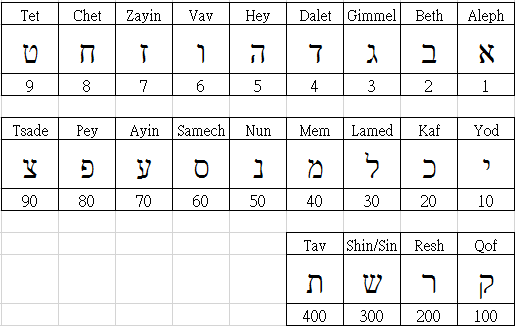
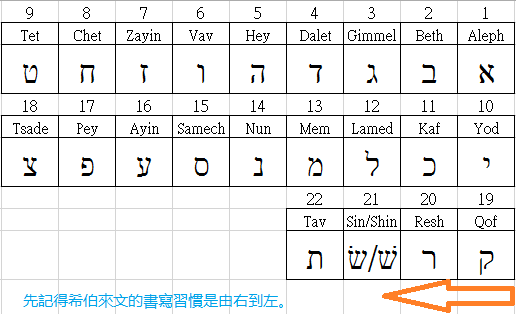
commit-01

diff --git a/docs/CH01.md b/docs/CH01.md
@@ -6,102 +6,87 @@
 
 對於希伯來文的22個字母，是長得什麼模樣？這份好奇心，就此深藏心中許久。
 
-近來，有幸在**FB**社群　[學習希伯來語-奇布茲](https://www.facebook.com/groups/308100932705850/)　看到一群同好在學習這種語言，也就一頭栽下，開始學習希伯來文了。
+近來，有幸在**FB**社群　[學習希伯來語-奇布茲][]　看到一群同好在學習這種語言，也就一頭栽下，開始學習希伯來文了。
 
-因為筆者是個初學者，加上自學又沒上過語言班補習；所以經歷地不少學習上的瓶頸與盲點，才想要將這過程的點點滴滴記錄下，以饗日後的學習者。
+因為筆者是個初學者，加上自學又沒上過語言班補習；所以經歷地不少學習上的瓶頸與盲點，才想要將這過程的點點滴滴記錄下，以饗日後新進的初學者。
 
-### 重點：
+
+### 本章學習重點：
 - 希伯來文書寫是由右至左。
-- 希伯來文共計22個子音字母。
-- 22個字母中，有３個母音字母 ה ו י
-- 22個字母中，有４個喉音字母 א ע ה ח （另一字母 ר 也有喉音表現）
-- 22個字母中，有５個字母具有字尾形式 (sofit) ץ/צ ,ף/פ ,ן/נ ,ם/מ ,ך/כ
-- 22個字母中，有６個字母，具有兩種發音方式：『塞音』、『擦音』。這類字母稱為 Begadkephat。
-
+- 希伯來文有22個字母。
+- 22個字母中，有３個**母音字母**
+- 22個字母中，有４個[喉音字母](#hg)
+- 22個字母中，有５個字母具有***字尾形式 (sofit)***
+- 22個字母中，有６個字母，具有兩種發音方式：『塞音』、『擦音』。這類字母稱為 **Begadkephat**。
 
 
 ---------------
-## 1.1　３個母音字母 ה ו י
+## 1.1　22個字母
+- 希伯來文書寫是由右至左。
+- 希伯來文共計22個子音字母
 
-## 1.2 ４個喉音字母 א ע ה ח  （另一字母 ר 也有喉音表現）
+ 	![22個子音字母](../images/img01-01.png)
 
-## 1.3　５個字母有字尾形式 (sofit) ץ/צ ,ף/פ ,ן/נ ,ם/מ ,ך/כ
+- 每個字母多代表一個數字值。例如 Aleph א 代表數字 1。
+因著有這樣的關係，所以將22個字母，分解成 9, 9, 4 來排列，好方便學習、記憶。
 
-- 希伯來文共計22個子音字母，每個字母多代表一個數字值。如 Aleph א 代表數字 1。
+ 	![字母與數字](../images/img01-02.png)
 
- 因著有這樣的關係，所以將22個字母，分解成 9, 9, 4 來排列，好方便學習、記憶。
+> PS :
 
- ![image](../images/img01-01.png)
 
-有５個字母具有字尾形式 (sofit) ץ/צ ,ף/פ ,ן/נ ,ם/מ ,ך/כ
 
-    例如：道路 דרך，世界 ארץ。
+## 1.2　３個母音字母 ה ו י
+- 母音字母
 
-有６個字母，具有兩種發音方式。這類字母稱為 Begadkephat。
-它們會以字母有沒有含 點 符號來表示；
-含點符號的字母，以『塞音』來發音。（如英文的 b, p）
-不含點符號的字母，以『擦音』來發音。（如英文的 v, f）
+- ３個母音字母 ה ו י
 
-image
+<h2 id="hg">1.3　４個喉音字母</h2>
+## 1.3　４個喉音字母 א ע ה ח 
+- 字母 ר 也有喉音表現
+- ４個喉音字母
+ - א
+ - ה
+ - ח
+ - ע
 
-> PS : 依據 Terence Ha 對 Begadkephat 的說明，可以更清楚明白 Begadkephat 的意義。
+## 1.4　５個字母有字尾形式 (sofit) ץ/צ ,ף/פ ,ן/נ ,ם/מ ,ך/כ
+- :
+
+ 	![字尾形式](../images/img01-05.png)
+
+
+	例如：道路 דרך，世界 ארץ。
+
+
+
+## 1.5　有６個Begadkephat字母。
+ 
+
+希伯來文字母中，有６個字母具有兩種發音方式。這6個字母稱為 Begadkephat。
+它們會以字母有沒有含**點符號**來表示
+
+- 含點符號的字母，以『塞音』來發音。（如英文的 b, p）
+- 不含點符號的字母，以『擦音』來發音。（如英文的 v, f）
+
+ 	![Begadkephat字母](../images/img01-06.png)
+
+
+> PS : 依據[學習希伯來語-奇布茲]的 Terence Ha 對 Begadkephat 的說明，可以更清楚明白 Begadkephat 的意義。
 
 > Begadkephat，是借用了 bet 的 b，gimel 的 g，dalet 的 d，
 kaf 的 k，pey 的 ph 和 tav 的 t，
 加了韻母後，b-g-d 變成 begad，k-ph-t 變成 kephat。
 
 
-## 1.2　Java 的特性
 
-Java 本身是個程式語言，
+## 1.6　總結
 
-### 1.2.1 語言特性
+作者在個人部落格[Blog][]中，常有分享希伯來文學習心得文章，讀者可多加以閱覽。
 
-作為一個程式語言，
 
-- 簡單的（Simple）
-
-  C/C++ 的功能強大
-
-- 物件導向的（Object-oriented）
-
-    物件導向分析（Object-oriented Analysis）
-
-- 網路的（Network-savvy）
-
-    Java 本身等於就是藉由網路而重生的，
-    
-    [JVM 將 Java 位元碼轉換為平台相依的機器指令](../images/img01-02.png)
-    [](../images/img01-02.png)
-
-圖1.2. JVM 將 Java 位元碼轉換為平台相依的機器指令
-
-> **良葛格的話匣子** 「平台」（Platform）一詞並沒有較嚴謹的定義，在電腦的領域中，平台有時指的是硬體，有時指的是作用於硬體之上的軟體系統，有時則指硬體加上軟體，這邊指的平台是「作業系統」，由於不同的硬體會運行不同的作業系統，所以這邊對平台的定義也就是硬體加上軟體。
-您可以在 [Google](http://www.google.com/) 上搜尋 define:platform 來查詢網路上各種對平台的定義。
-
-### 1.2.2 應用平台
-
-Java 至今日主要發展出
-
-### 1.2.3　活躍的社群與豐富的資源
-
-Java 發展至今日獲得廣大
-
-## 1.3　如何學習 Java
-
-如果您是 Java 的初學者，
-
-Java 技術概念地圖的網址是：
-    
-    http://java.sun.com/developer/onlineTraining/new2java/javamap/intro.html。
-
-## 1.4　接下來的主題
-
-每一個章節的內容由淺至深，初學者該掌握的深度要到哪呢？在這個章節中，對於初學者我建議至少掌握以下幾點內容：
-
-- 什麼是位元碼（bytecode）
-- Java 可以跨平台的原因
-- Java 的三個應用領域（平台）
-- Java SE、JDK、JRE、JVM 的差異
-
-我喜歡從實作中學習新的事物並體驗當中運行的原理，並認為這是一個良好的學習方式，這種方式可以同時獲得觀念與實證。我也建議您從實作中學習，所以接下來我會以實作方式來介紹 Java 的每一個環節，首先第一步就是準備好撰寫 Java 程式的環境，包括安裝 JDK、設定環境變數、瞭解主控台（Console）操作以及選擇一個好的編輯器或整合開發環境（Integrated Development Environment）。
+[Blog]: http://pertonchang.blogspot.tw/
+[pertonchang]: http://pertonchang.blogspot.tw/
+[學習希伯來語-奇布茲]: https://www.facebook.com/groups/308100932705850/
+[001]: https://www.facebook.com/groups/308100932705850/
+[002]: https://www.facebook.com/groups/308100932705850/

diff --git a/docs/AP01.md b/docs/AP01.md
@@ -8,6 +8,9 @@
 - 會話
 
 - 聖經
+ - [聖經希伯來文講義目錄](http://www.chioulaoshi.org/BH/handouts.html)
+ - [聖經希伯來文](http://www.chioulaoshi.org/BH/index.html)
+
 
 ----
 https://www.ptt.cc/bbs/ask/M.1258829337.A.328.html
@@ -29,8 +32,9 @@ http://www.lexilogos.com/keyboard/hebrew.htm
 http://www.chioulaoshi.org/BH/handouts.html
 http://www.chioulaoshi.org/BH/index.html
 
-信望愛 聖經工具
-https://bible.fhl.net/new/read.php
+- 聖經工具
+ - [信望愛 聖經工具](https://bible.fhl.net/new/read.php)
+
 http://bible.fhl.net/new/parsing.php?graph=1&mode=3&engs=Ps&chap=123&sec=2&sec1&submit1=%E9%A1%AF%E7%A4%BA
 
 字根、字首

diff --git a/docs/AP02.md b/docs/AP02.md
@@ -1,0 +1,12 @@
+# Hebrew 字形檔資源
+---
+
+cobsh  http://bible.fhl.net/new/cobsh.zip
+
+SBL_Hbrw   http://www.sbl-site.org/Fonts/SBL_Hbrw.ttf
+    http://www.sbl-site.org/educational/BiblicalFonts_SBLHebrew.aspx
+
+https://www.teknia.com/freehebrewfont
+
+Ezra SIL  http://www.lexilogos.com/clavier/SILEOT.ttf
+Motek   http://www.lexilogos.com/clavier/motek.ttf
